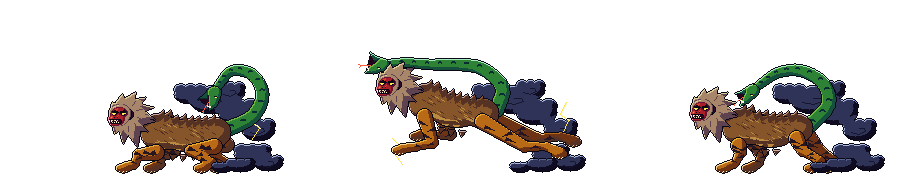
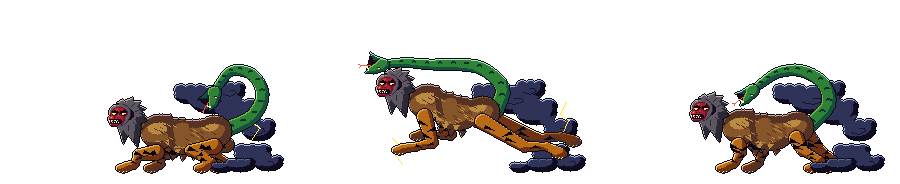
Bosse: Sōjōbō im Safran-Yamabushi-Gewand mit Bonten-Quasten, runden Schultern und Hals; Nue mit grauem Makakenfell, weicherem Tanuki-Leib und schwarzen Tigerstreifen
Claude-Session: https://claude.ai/code/session_01KhgxT7a5tRTGeQVFkHSAcV

diff --git a/art_src/fable/bosses_1/boss_nue.py b/art_src/fable/bosses_1/boss_nue.py
@@ -6,11 +6,13 @@ CW, CH = 300, 184
 OX, OY = 62, 42          # local baseline y=130
 FUR = ('s1', 's2', 's3')
 TIG = ('t0', 't1', 't2')
+col('t2', '#f0b038')
 TFAR = ('s1', 't0', 't1')
 SNK = ('g1', 'g2', 'g3')
 CLD = ('h0', 'i1', 'i2')
+col('z0', '#2c2836'); col('z1', '#5e5660'); col('z2', '#958a88'); col('z3', '#c4b8ac'); add_rim('z0 z1 z2', 'z3')
 
-LEG = dict(zip('fFGabcdeKYZWwq', ['b0', 'b1', 'b2', 'r0', 'r1', 'r2', 'r3', 'r4', 'K', 'y2', 'y3', 'b3', 'b2', 'q']))
+LEG = dict(zip('fFGabcdeKYZWwq', ['z0', 'z1', 'z2', 'r0', 'r1', 'r2', 'r3', 'r4', 'K', 'y2', 'y3', 'b3', 'b2', 'q']))
 FACE = """
 ........fffFFFFff.......
 .....ffFFGGFFFFFFff.....
@@ -54,10 +56,10 @@ def tleg(c, J, ramp, far=False):
     # geschwungene Streifen: schmale schräge Keile, abwechselnd von vorn und hinten
     for i_, t0 in enumerate((0.25, 0.5, 0.75)):
         q = lerp(a, b, t0); side = 1 if i_ % 2 else -1
-        p.fill(tri((q[0] + side * 8, q[1] - 1), 160 if side > 0 else 20, 10, 3.6) & up, 's0')
+        p.fill(tri((q[0] + side * 8, q[1] - 1), 160 if side > 0 else 20, 10, 3.6) & up, 'K')
     for i_, t0 in enumerate((0.3, 0.7)):
         q = lerp(b, d, t0); side = -1 if i_ % 2 else 1
-        p.fill(tri((q[0] + side * 5, q[1]), 160 if side > 0 else 20, 6, 2.6) & lo, 's0')
+        p.fill(tri((q[0] + side * 5, q[1]), 160 if side > 0 else 20, 6, 2.6) & lo, 'K')
     c.stamp(p, 'K')
     for i in range(4):                                            # Krallen
         cx = int(e[0] - 8 + i * 3.6); cy = int(e[1] + 3)
@@ -177,11 +179,11 @@ def nue(**kw):
     p = C()
     ch, ru = F((92, 82)), Bk((144, 84))
     mid = lerp(ch, ru, 0.5)
-    body = (E(ch[0] - 1, ch[1] - 5, 19, 18) | E(mid[0] + 2, mid[1] + 4, 23, 12) | E(ru[0] + 2, ru[1] - 2, 16, 15)
-            | L(ch[0], ch[1] - 2, 15, ru[0], ru[1] - 1, 12))
+    body = (E(ch[0] - 1, ch[1] - 5, 19, 17) | E(mid[0] + 2, mid[1] + 6, 21, 13) | E(ru[0] + 2, ru[1] - 3, 17, 16)
+            | L(ch[0], ch[1] - 4, 13, ru[0], ru[1] - 3, 11))          # eingesattelter Rücken, hängender Bauch
     tuft = np.zeros_like(body)
     for t in (0.0, 0.14, 0.28, 0.42, 0.56, 0.7, 0.84, 0.98):                               # weiche Fellbuckel am Rücken
-        q = lerp(ch, ru, t); tuft |= tri((q[0] + 1, q[1] - 14 - (7 if t < 0.25 else 2 if t < 0.5 else 0)), 290, 5, 7)
+        q = lerp(ch, ru, t); tuft |= tri((q[0] + 1, q[1] - 13 - (6 if t < 0.25 else 2 if t < 0.5 else 0)), 300, 3, 8)
     for t, l_ in ((0.25, 5), (0.45, 6), (0.65, 5)):                                          # Bauchzotteln
         q = lerp(ch, ru, t); tuft |= tri((q[0], q[1] + 19), 100, l_, 6)
     full = body | tuft
@@ -190,6 +192,12 @@ def nue(**kw):
     p.fill(back & (p.a == I('s2')), 's1'); p.fill(back & (p.a == I('s3')), 's2')
     bel = full & ~sh(full, 0, -7) & (px.X > ch[0] - 6) & (px.X < ru[0] + 4)                # heller Bauch
     p.fill(bel & (p.a == I('s2')), 's3')
+    for (q, rx, ry) in ((ch, 10, 7), (ru, 9, 6)):                                         # Volumen: Licht auf Schulter und Kruppe
+        hl_ = E(q[0] - 3, q[1] - 9, rx, ry) & body
+        p.fill(hl_ & (p.a == I('s2')), 's3')
+    p.fill(E(mid[0] - 4, mid[1] - 9, 7, 4) & body & (p.a == I('s1')), 's2')
+    sh_band = L(ch[0] + 8, ch[1] - 16, 3, ch[0] + 12, ch[1] + 8, 3) & body                  # dunkles Schulterband (Tanuki)
+    p.fill(sh_band, 's1')
     import random as _r
     rg = _r.Random(7)
     for k in range(34):                                                                    # Fellstriche, schräg nach hinten
@@ -207,20 +215,20 @@ def nue(**kw):
     HX, HY = F((40 + hx, 50 + hy))
     p = C()
     cx, cy = HX + 14, HY + 11
-    mane = E(cx + 4, cy, 17.4, 16.4)
-    for a_, l_ in ((215, 6), (250, 8), (280, 11), (305, 13), (330, 15), (355, 15), (20, 15), (45, 13), (70, 12), (100, 10), (130, 8)):
-        mane |= tri(pol((cx + 4, cy), a_, 14), a_ + (25 if a_ > 180 else -15), l_, 10)
+    mane = E(cx + 4, cy, 15.0, 14.0)                                  # Makakenfell: kürzer, weicher
+    for a_, l_ in ((250, 4), (280, 6), (305, 7), (330, 8), (355, 8), (20, 8), (45, 7), (70, 6), (100, 5)):
+        mane |= tri(pol((cx + 4, cy), a_, 13), a_ + (25 if a_ > 180 else -15), l_, 9)
     ruff = tri((cx + 10, cy + 12), 75, 20, 16) | tri((cx + 2, cy + 13), 95, 15, 12)
-    p.form(mane | ruff, ('b0', 'b1', 'b2'), sd=5, hl=1)
+    p.form(mane | ruff, ('z0', 'z1', 'z2'), sd=5, hl=1)
     for a_ in (300, 335, 10, 45, 80):
-        q0 = pol((cx + 4, cy), a_, 11); p.line([q0, pol(q0, a_ + 10, 6)], 'b0', only=mane)
+        q0 = pol((cx + 4, cy), a_, 10); p.line([q0, pol(q0, a_ + 10, 5)], 'z0', only=mane)
     c.stamp(p, 'K')
     p = C()
     p.form(E(HX + 21, HY + 10, 3.4, 4.4), ('r0', 'r1', 'r2'), sd=1, hl=0)                     # ear
     c.stamp(p, 'K')
     p = C()
     p.grid(HX, HY, FACE, LEG)
-    c.stamp(p, 'K', skip=('b0', 'b1', 'b2'))
+    c.stamp(p, 'K', skip=('z0', 'z1', 'z2'))
 
     # ---- low storm cloud in front of the hind feet
     cloud(c, [(178 + cl, 123, 14, 6), (160 - cl, 125, 10, 4.4)], ())

diff --git a/art_src/fable/bosses_1/boss_sojobo.py b/art_src/fable/bosses_1/boss_sojobo.py
@@ -5,8 +5,11 @@ NAME = 'boss_sojobo'
 CW, CH = 292, 208
 OX, OY = 70, 50          # local baseline y=150
 BLKF = ('h0', 'h1', 'h2')
-PUR = ('p1', 'p2', 'p3')
-PFAR = ('p0', 'p1', 'p2')
+# Yamabushi-Gewand (suzukake) in Safran statt Violett
+col('sj0', '#2e1e1a'); col('sj1', '#6e4a26'); col('sj2', '#a87c36'); col('sj3', '#d8b266')
+add_rim('sj0 sj1 sj2', 'xt')
+PUR = ('sj1', 'sj2', 'sj3')
+PFAR = ('sj0', 'sj1', 'sj2')
 HAK = ('i0', 'i1', 'i2')
 WHT = ('v1', 'v2', 'v3')
 GOLD = ('y0', 'y1', 'y2')
@@ -139,7 +142,7 @@ def sojobo(**kw):
 
     def sleeve_arm(sh_, el, ha, rp, far):
         p = C()
-        up = L(*sh_, 7.0, *el, 6.2) | E(sh_[0], sh_[1] + 1, 7.5, 6.5)
+        up = L(*sh_, 6.0, *el, 5.2) | E(sh_[0], sh_[1] + 1, 6.4, 5.6)
         p.form(up, rp, sd=4, hl=1)
         q = lerp(sh_, el, 0.5)
         p.line([(q[0] - 3, q[1] - 2), (q[0] + 2, q[1] + 3)], rp[0], only=up)          # Stoff-Falte
@@ -151,11 +154,11 @@ def sojobo(**kw):
             nx, ny = -nx, -ny
         # weiter, herabhängender Ärmel: weich gerundet statt kantig
         mid = lerp(el, ha, 0.55)
-        w = (L(*el, 6.6, *ha, 6.0) | E(mid[0] + nx * 7, mid[1] + ny * 7, 9.5, 7.5)
-             | L(mid[0] + nx * 4, mid[1] + ny * 4, 6.0, ha[0] + nx * 11, ha[1] + ny * 11, 5.0))
+        w = (L(*el, 5.6, *ha, 5.0) | E(mid[0] + nx * 5, mid[1] + ny * 5, 7.0, 5.4)
+             | L(mid[0] + nx * 3, mid[1] + ny * 3, 4.6, ha[0] + nx * 8, ha[1] + ny * 8, 3.6))
         p.form(w, rp, sd=5, hl=1)
         p.line([(el[0] + nx * 3, el[1] + ny * 6), (mid[0] + nx * 11, mid[1] + ny * 11)], rp[0], only=w)   # Faltenwurf
-        cuff = L(ha[0] - nx * 4, ha[1] - ny * 4, 1.6, ha[0] + nx * 14, ha[1] + ny * 14, 1.6)
+        cuff = L(ha[0] - nx * 4, ha[1] - ny * 4, 1.4, ha[0] + nx * 11, ha[1] + ny * 11, 1.4)
         p.fill(cuff & w, 'v1')                                            # weißes Futter am Ärmelsaum
         c.stamp(p, 'K')
         p = C()
@@ -183,26 +186,35 @@ def sojobo(**kw):
 
     # ---- robe
     p = C()
-    robe = (L(*B((89, 62)), 6.5, *B((85, 95)), 6.0) | L(*B((110, 61)), 6.5, *B((115, 95)), 6.0)
-            | PG([B((89, 56)), B((110, 55)), B((117, 98)), B((83, 98))]) | E(*B((99, 59)), 13, 5))
+    robe = (E(*B((99, 68)), 15, 15) | E(*B((99, 86)), 16, 12)                 # runde Schultern, weicher Fall
+            | PG([B((86, 74)), B((113, 74)), B((118, 98)), B((81, 98))]))
     p.form(robe, PUR, sd=7, hl=1)
     collar = PG([B((90, 55)), B((96, 55)), B((100, 70)), B((104, 55)), B((110, 55)), B((101, 76)), B((99, 76))])
     p.form(collar & robe, WHT, sd=1, hl=1)                                   # weißer Kragen des Untergewands (V)
     for a_, b_ in (((84, 66), (83, 92)), ((116, 66), (118, 92))):            # Faltenwurf an den Seiten
-        p.line([B(a_), B(b_)], 'p1', only=robe)
-    p.line([B((92, 56)), B((98, 76)), B((97, 96))], 'p0', only=robe)
+        p.line([B(a_), B(b_)], 'sj1', only=robe)
+    p.line([B((92, 56)), B((98, 76)), B((97, 96))], 'sj0', only=robe)
+    for y in range(62, 96, 6):                                               # Suzukake-Karomuster
+        for x in range(84, 118, 6):
+            p.pxs([B((x + (y // 6) % 2 * 3, y))], 'sj1')
     belt = PG([B((82, 88)), B((118, 87)), B((118, 95)), B((82, 96))])
     p.form(belt, WHT, sd=2, hl=1)
     p.line([B((82, 92)), B((118, 91))], 'v0', only=belt)
     # yuigesa: sash with gold pom-poms
     for a_, b_ in (((90, 56), (104, 86)), ((108, 55), (92, 86))):
         p.line([B(a_), B(b_)], 'c1', only=robe); p.line([B((a_[0] + 1, a_[1])), B((b_[0] + 1, b_[1]))], 'c0', only=robe)
-    for (x, y) in ((93, 63), (105, 62), (99, 74), (95, 82)):
-        p.form(E(*B((x, y)), 3.4, 3.4), GOLD, sd=1, hl=1)
+    for (x, y), rp in zip(((93, 63), (105, 62), (99, 74), (95, 82)),
+                          (('m1', 'm2', 'm3'), WHT, ('g1', 'g2', 'g3'), ('m1', 'm2', 'm3'))):
+        p.form(E(*B((x, y)), 3.6, 3.6), rp, sd=1, hl=1)                      # Bonten-Quasten
+        p.pxs([B((x - 1, y - 1)), B((x + 1, y)), B((x, y + 1))], rp[0])
     c.stamp(p, 'K')
 
+    # ---- Hals verbindet Kopf und Gewand
+    p = C()
+    p.form(L(*B((92, 52)), 5.0, *B((96, 60)), 6.0), SK, sd=2, hl=0)
+    c.stamp(p, 'K')
     # ---- white mane behind the head
-    hx, hy = B((60, 26))
+    hx, hy = B((70, 28))
     p = C()
     hd = S['beard']
     mane = E(hx + 15, hy + 7, 10.4, 9.4)
